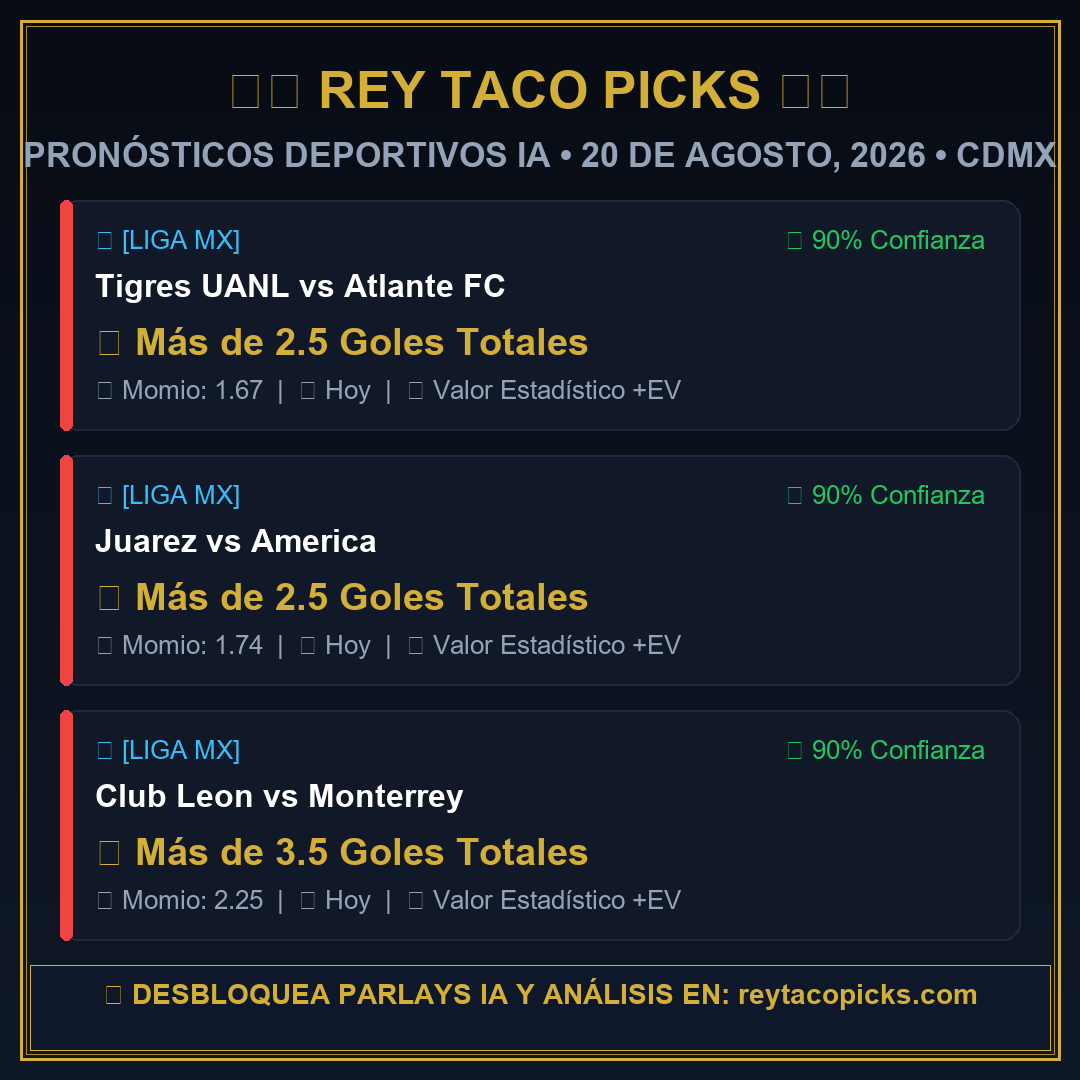
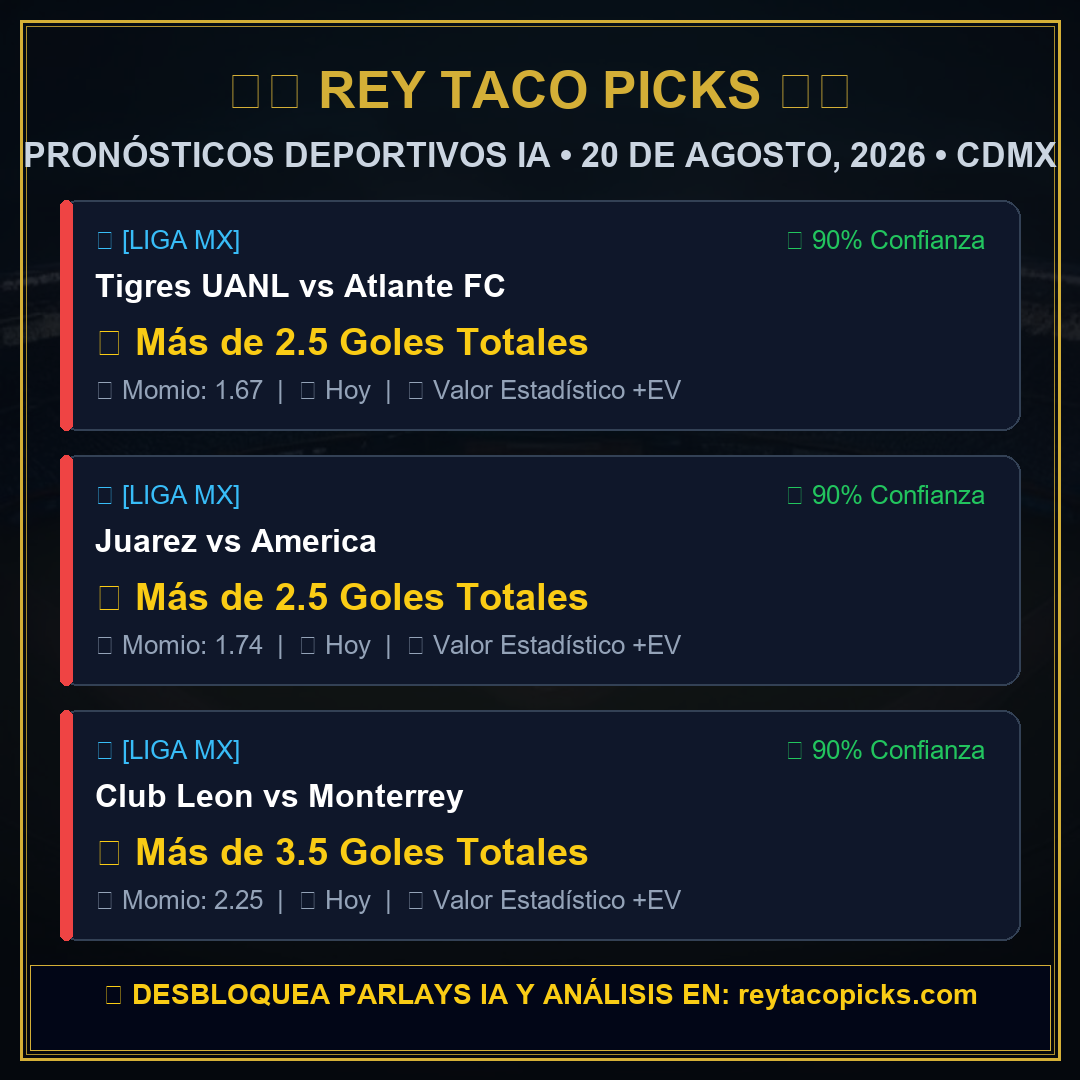
Integrate Pollinations FLUX free AI background generator into social media poster pipeline

diff --git a/backend/social_banner.py b/backend/social_banner.py
@@ -2,17 +2,47 @@ import os
 import sys
 import json
 import time
-from PIL import Image, ImageDraw, ImageFont
+import urllib.request
+import urllib.parse
+from PIL import Image, ImageDraw, ImageFont, ImageEnhance
 
 sys.stdout.reconfigure(encoding='utf-8')
 
-def generar_banner_redes(picks=None, output_path="banner_hoy.png"):
+def descargar_fondo_ia(prompt=None):
+    """
+    Genera y descarga un fondo hiperrealista de estadio deportivo usando la API gratuita de Pollinations FLUX.
+    """
+    if not prompt:
+        prompts = [
+            "cinematic empty modern football stadium at night with golden stadium lights, dramatic dark atmospheric volumetric smoke, 8k ultra detailed sports background",
+            "hyperrealistic modern soccer arena floodlights at night, dark luxury aesthetic, golden bokeh lights, championship atmosphere, 8k",
+            "dramatic baseball stadium at night with emerald grass, bright floodlights, dark volumetric stadium smoke, 8k cinematic",
+            "futuristic dark sports stadium interior, golden neon accents, ultra realistic cinematic lighting, 8k wallpaper"
+        ]
+        # Seleccionar según el día
+        import random
+        prompt = random.choice(prompts)
+
+    bg_path = os.path.join(os.path.dirname(__file__), "ai_stadium_bg.jpg")
+    try:
+        encoded = urllib.parse.quote(prompt)
+        url = f"https://image.pollinations.ai/prompt/{encoded}?width=1080&height=1080&model=flux&nologo=true"
+        req = urllib.request.Request(url, headers={'User-Agent': 'Mozilla/5.0'})
+        with urllib.request.urlopen(req, timeout=20) as resp:
+            with open(bg_path, "wb") as f:
+                f.write(resp.read())
+        if os.path.exists(bg_path) and os.path.getsize(bg_path) > 5000:
+            return bg_path
+    except Exception as e:
+        print(f"   ℹ Usando fondo oscuro de respaldo: {e}")
+    return None
+
+def generar_banner_redes(picks=None, output_path="banner_hoy.png", usar_ia=True):
     """
     Genera un banner gráfico profesional de 1080x1080 px para Instagram / Facebook
-    con los 3 mejores picks del día de Rey Taco Picks.
+    combinando fondos generados por Inteligencia Artificial con tipografía de alto impacto.
     """
     if not picks:
-        # Cargar de picks.json o Supabase
         json_path = os.path.join(os.path.dirname(__file__), "..", "frontend", "public", "picks.json")
         if os.path.exists(json_path):
             with open(json_path, "r", encoding="utf-8") as f:
@@ -20,7 +50,6 @@ def generar_banner_redes(picks=None, output_path="banner_hoy.png"):
         else:
             picks = []
 
-    # Filtrar 3 picks individuales principales
     free_picks = [p for p in picks if not p.get('es_parlay')][:3]
     if not free_picks:
         free_picks = [
@@ -29,13 +58,28 @@ def generar_banner_redes(picks=None, output_path="banner_hoy.png"):
             {"categoria": "MLB", "partido": "WAS Nationals vs TEX Rangers", "pick": "Más de 7.5 Carreras Totales", "cuota": "1.95", "confianza": "91%"}
         ]
 
-    # Dimensiones
     width = 1080
     height = 1080
-    img = Image.new("RGB", (width, height), color="#080c14")
+
+    # 1. Base / Fondo IA o Degradado
+    ai_bg_file = descargar_fondo_ia() if usar_ia else None
+    if ai_bg_file and os.path.exists(ai_bg_file):
+        try:
+            base_img = Image.open(ai_bg_file).resize((width, height)).convert("RGBA")
+            # Oscurecer y contrastar para legibilidad óptima
+            enhancer = ImageEnhance.Brightness(base_img)
+            base_img = enhancer.enhance(0.35)
+            # Capa de tinte azul/oscuro
+            overlay = Image.new("RGBA", (width, height), (8, 12, 20, 160))
+            img = Image.alpha_composite(base_img, overlay).convert("RGB")
+        except Exception:
+            img = Image.new("RGB", (width, height), color="#080c14")
+    else:
+        img = Image.new("RGB", (width, height), color="#080c14")
+
     draw = ImageDraw.Draw(img)
 
-    # Intentar cargar fuentes del sistema o usar default
+    # 2. Fuentes
     try:
         font_title = ImageFont.truetype("arialbd.ttf", 52)
         font_subtitle = ImageFont.truetype("arialbd.ttf", 34)
@@ -51,23 +95,16 @@ def generar_banner_redes(picks=None, output_path="banner_hoy.png"):
         font_card_meta = font_title
         font_footer = font_title
 
-    # 1. Fondo degradado sutil
-    for y in range(height):
-        r = int(8 + (15 - 8) * (y / height))
-        g = int(12 + (24 - 12) * (y / height))
-        b = int(20 + (39 - 20) * (y / height))
-        draw.line([(0, y), (width, y)], fill=(r, g, b))
-
-    # 2. Marco Dorado Exterior
+    # 3. Marco Dorado Exterior
     draw.rectangle([(20, 20), (width - 20, height - 20)], outline="#D4AF37", width=3)
     draw.rectangle([(26, 26), (width - 26, height - 26)], outline="#AA8C2C", width=1)
 
-    # 3. Header
+    # 4. Header
     draw.text((width // 2, 70), "🌮👑 REY TACO PICKS 👑🌮", fill="#D4AF37", font=font_title, anchor="mt")
     fecha_str = time.strftime('%d de Agosto, %Y • CDMX')
-    draw.text((width // 2, 135), f"PRONÓSTICOS DEPORTIVOS IA • {fecha_str.upper()}", fill="#94A3B8", font=font_subtitle, anchor="mt")
+    draw.text((width // 2, 135), f"PRONÓSTICOS DEPORTIVOS IA • {fecha_str.upper()}", fill="#CBD5E1", font=font_subtitle, anchor="mt")
 
-    # 4. Tarjetas de los 3 Picks
+    # 5. Tarjetas de los 3 Picks
     start_y = 200
     card_height = 230
     card_margin = 25
@@ -77,8 +114,8 @@ def generar_banner_redes(picks=None, output_path="banner_hoy.png"):
     for i, p in enumerate(free_picks):
         cy = start_y + (i * (card_height + card_margin))
         
-        # Fondo de Tarjeta
-        draw.rounded_rectangle([(card_x, cy), (card_x + card_width, cy + card_height)], radius=18, fill="#111827", outline="#1E293B", width=2)
+        # Fondo translúcido de Tarjeta
+        draw.rounded_rectangle([(card_x, cy), (card_x + card_width, cy + card_height)], radius=18, fill="#0F172A", outline="#334155", width=2)
         
         # Acento lateral rojo/carmesí
         draw.rounded_rectangle([(card_x, cy), (card_x + 12, cy + card_height)], radius=6, fill="#EF4444")
@@ -97,21 +134,21 @@ def generar_banner_redes(picks=None, output_path="banner_hoy.png"):
 
         # Selección / Pick (Dorado Brillante)
         pick_text = p.get('pick', 'Más de 2.5 Goles')
-        draw.text((card_x + 35, cy + 120), f"🎯 {pick_text}", fill="#D4AF37", font=font_card_pick)
+        draw.text((card_x + 35, cy + 120), f"🎯 {pick_text}", fill="#FACC15", font=font_card_pick)
 
         # Cuota y Horario
         cuota = p.get('cuota', '1.75')
         horario = p.get('horario', 'Hoy')
         draw.text((card_x + 35, cy + 175), f"📊 Momio: {cuota}  |  🕒 {horario}  |  💎 Valor Estadístico +EV", fill="#94A3B8", font=font_card_meta)
 
-    # 5. Footer & Call To Action
+    # 6. Footer & Call To Action
     footer_y = height - 90
-    draw.rectangle([(30, footer_y - 25), (width - 30, height - 30)], fill="#0F172A", outline="#D4AF37", width=1)
-    draw.text((width // 2, footer_y - 12), "🌐 DESBLOQUEA PARLAYS IA Y ANÁLISIS EN: reytacopicks.com", fill="#D4AF37", font=font_footer, anchor="mt")
+    draw.rectangle([(30, footer_y - 25), (width - 30, height - 30)], fill="#020617", outline="#D4AF37", width=1)
+    draw.text((width // 2, footer_y - 12), "🌐 DESBLOQUEA PARLAYS IA Y ANÁLISIS EN: reytacopicks.com", fill="#FACC15", font=font_footer, anchor="mt")
 
     # Guardar
     img.save(output_path, "PNG", quality=95)
-    print(f"🎉 Banner gráfico generado exitosamente: {output_path} ({width}x{height} px)")
+    print(f"🎉 Banner gráfico con IA generado exitosamente: {output_path} ({width}x{height} px)")
     return output_path
 
 if __name__ == "__main__":

diff --git a/test_free_ai_image.py b/test_free_ai_image.py
@@ -1,0 +1,22 @@
+import urllib.request
+import urllib.parse
+import os
+from PIL import Image, ImageDraw, ImageFont
+
+print("Probando API gratuita de IA (Pollinations.ai / FLUX)...")
+
+prompt = "hyperrealistic cinematic empty modern soccer football stadium at night with golden stadium lights, dramatic dark atmospheric volumetric smoke, 8k ultra detailed sports background"
+encoded_prompt = urllib.parse.quote(prompt)
+url = f"https://image.pollinations.ai/prompt/{encoded_prompt}?width=1080&height=1080&model=flux&nologo=true"
+
+ai_bg_path = "ai_bg_test.jpg"
+
+try:
+    req = urllib.request.Request(url, headers={'User-Agent': 'Mozilla/5.0'})
+    print("Descargando imagen generada por IA...")
+    with urllib.request.urlopen(req, timeout=30) as resp:
+        with open(ai_bg_path, "wb") as f:
+            f.write(resp.read())
+    print(f"✅ ¡Fondo con IA generado exitosamente! ({os.path.getsize(ai_bg_path)} bytes)")
+except Exception as e:
+    print(f"❌ Error generando imagen IA: {e}")
